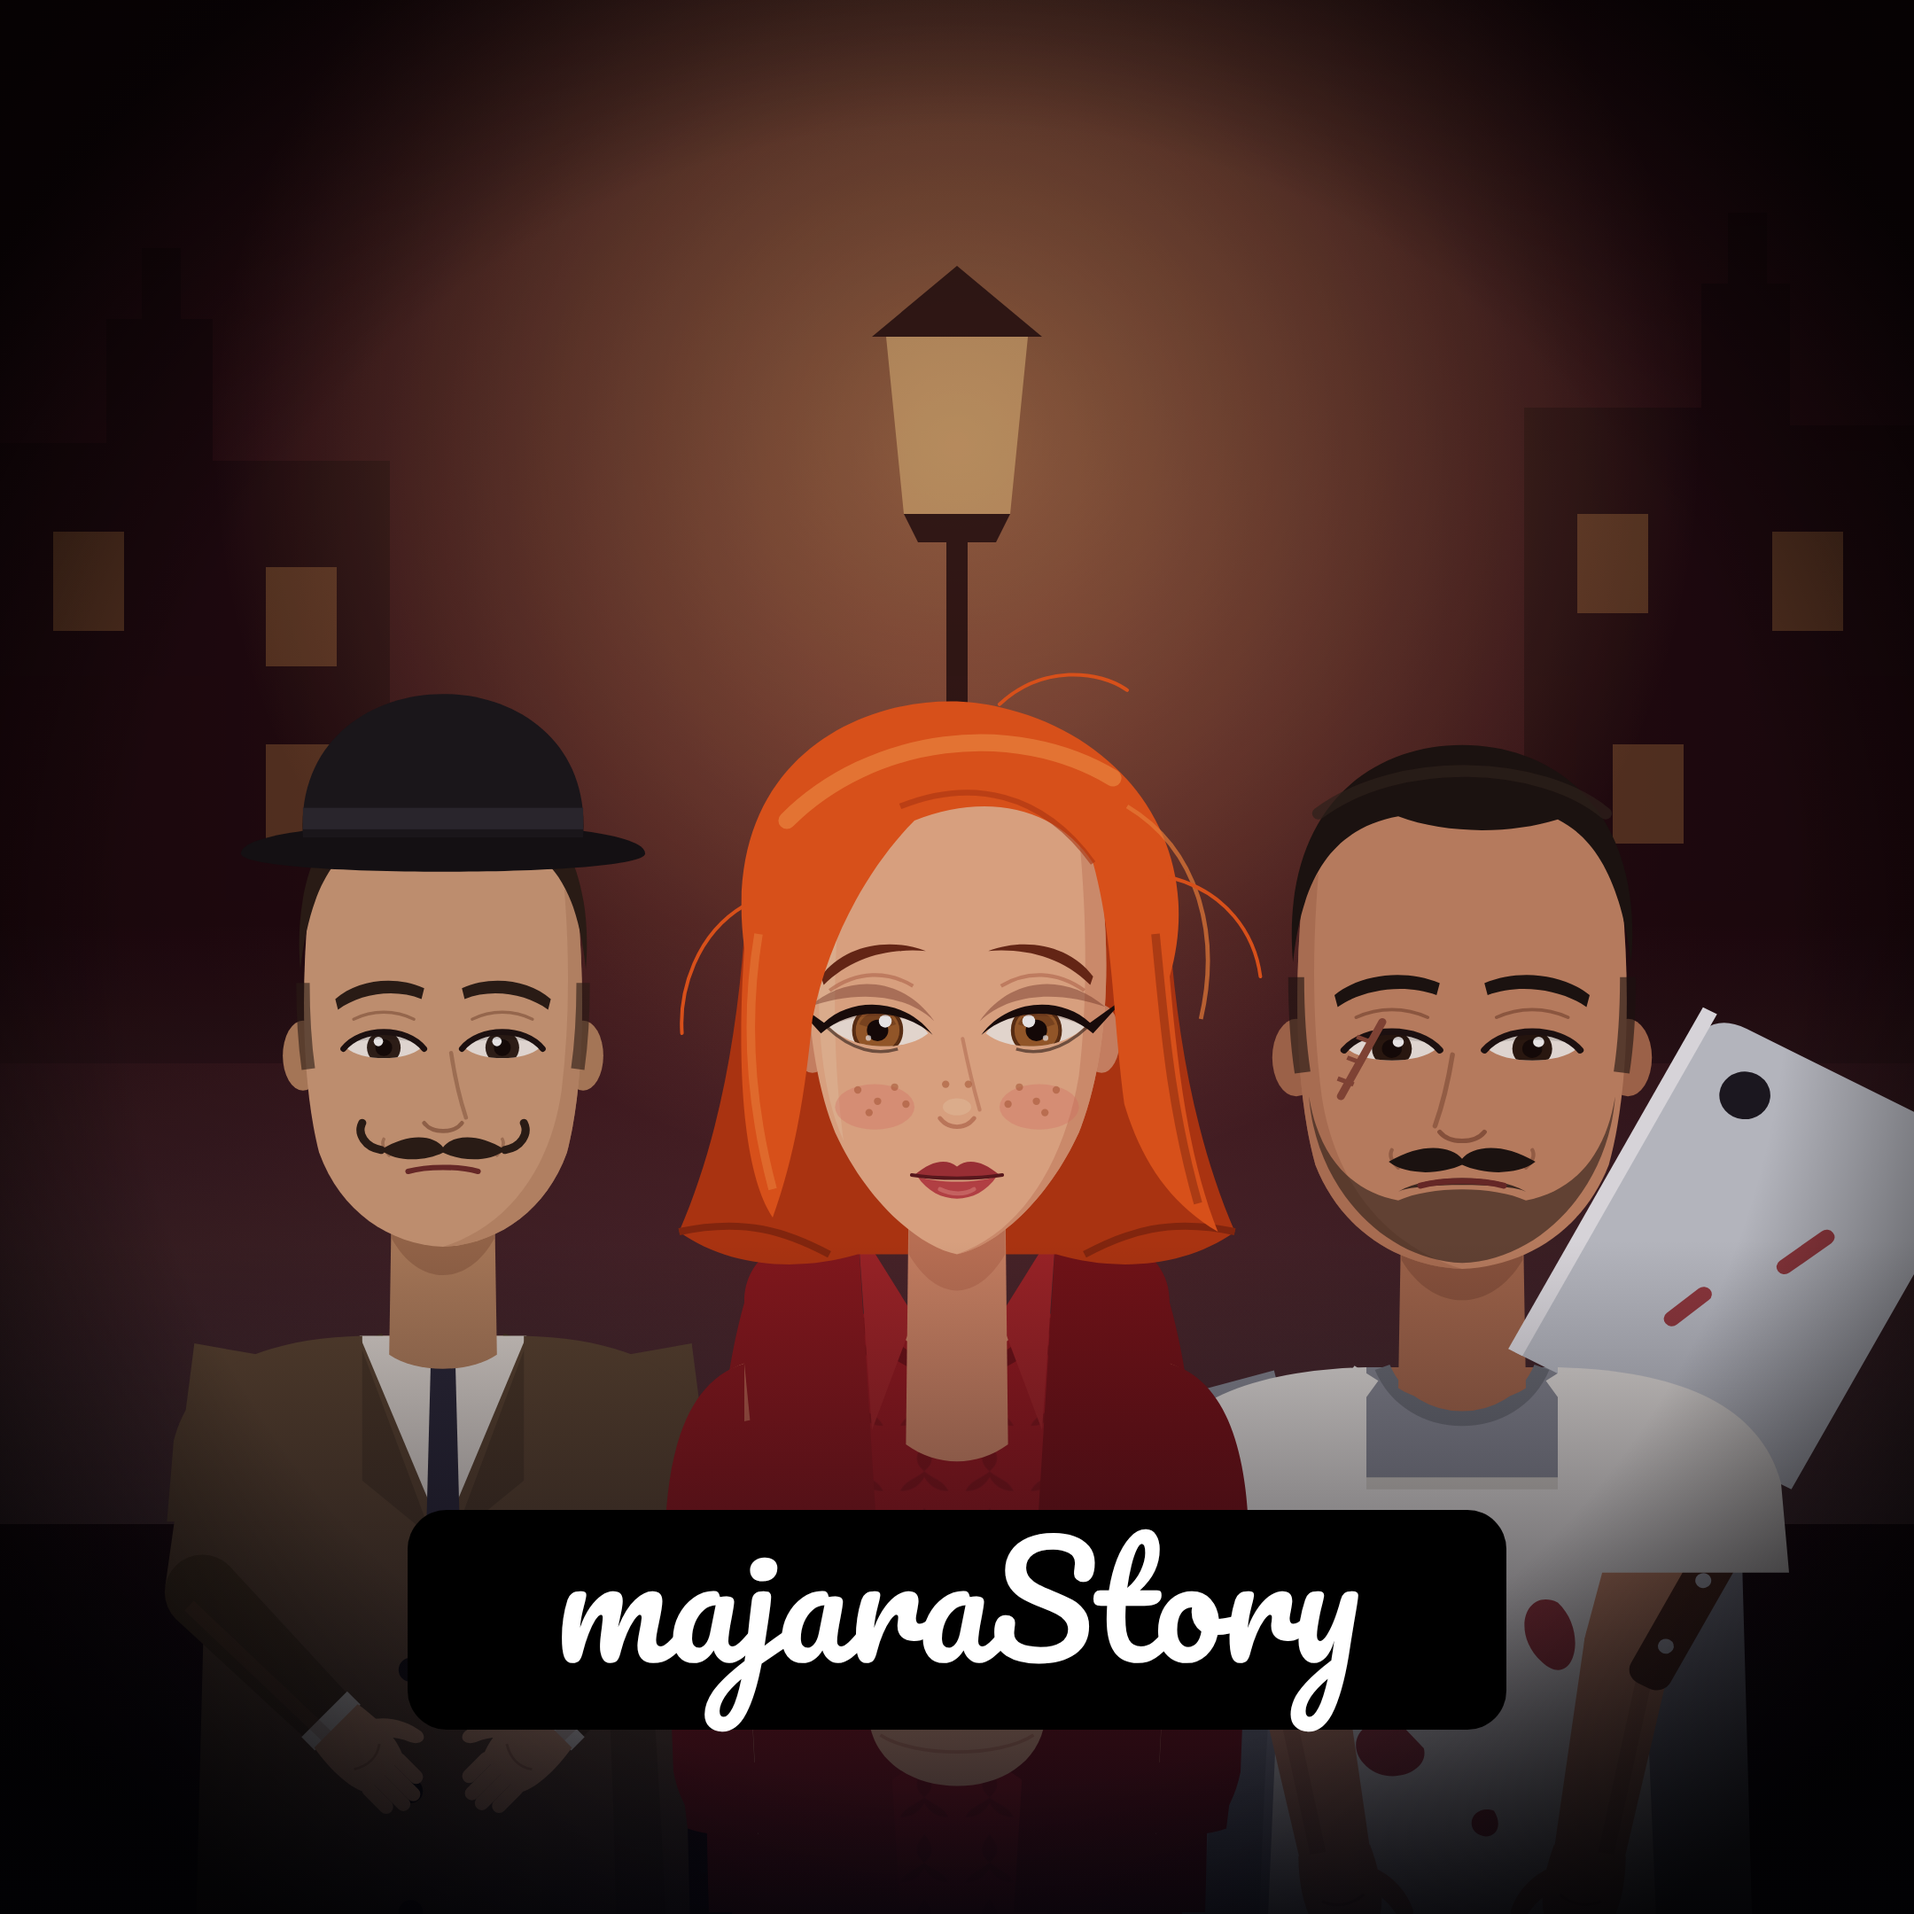
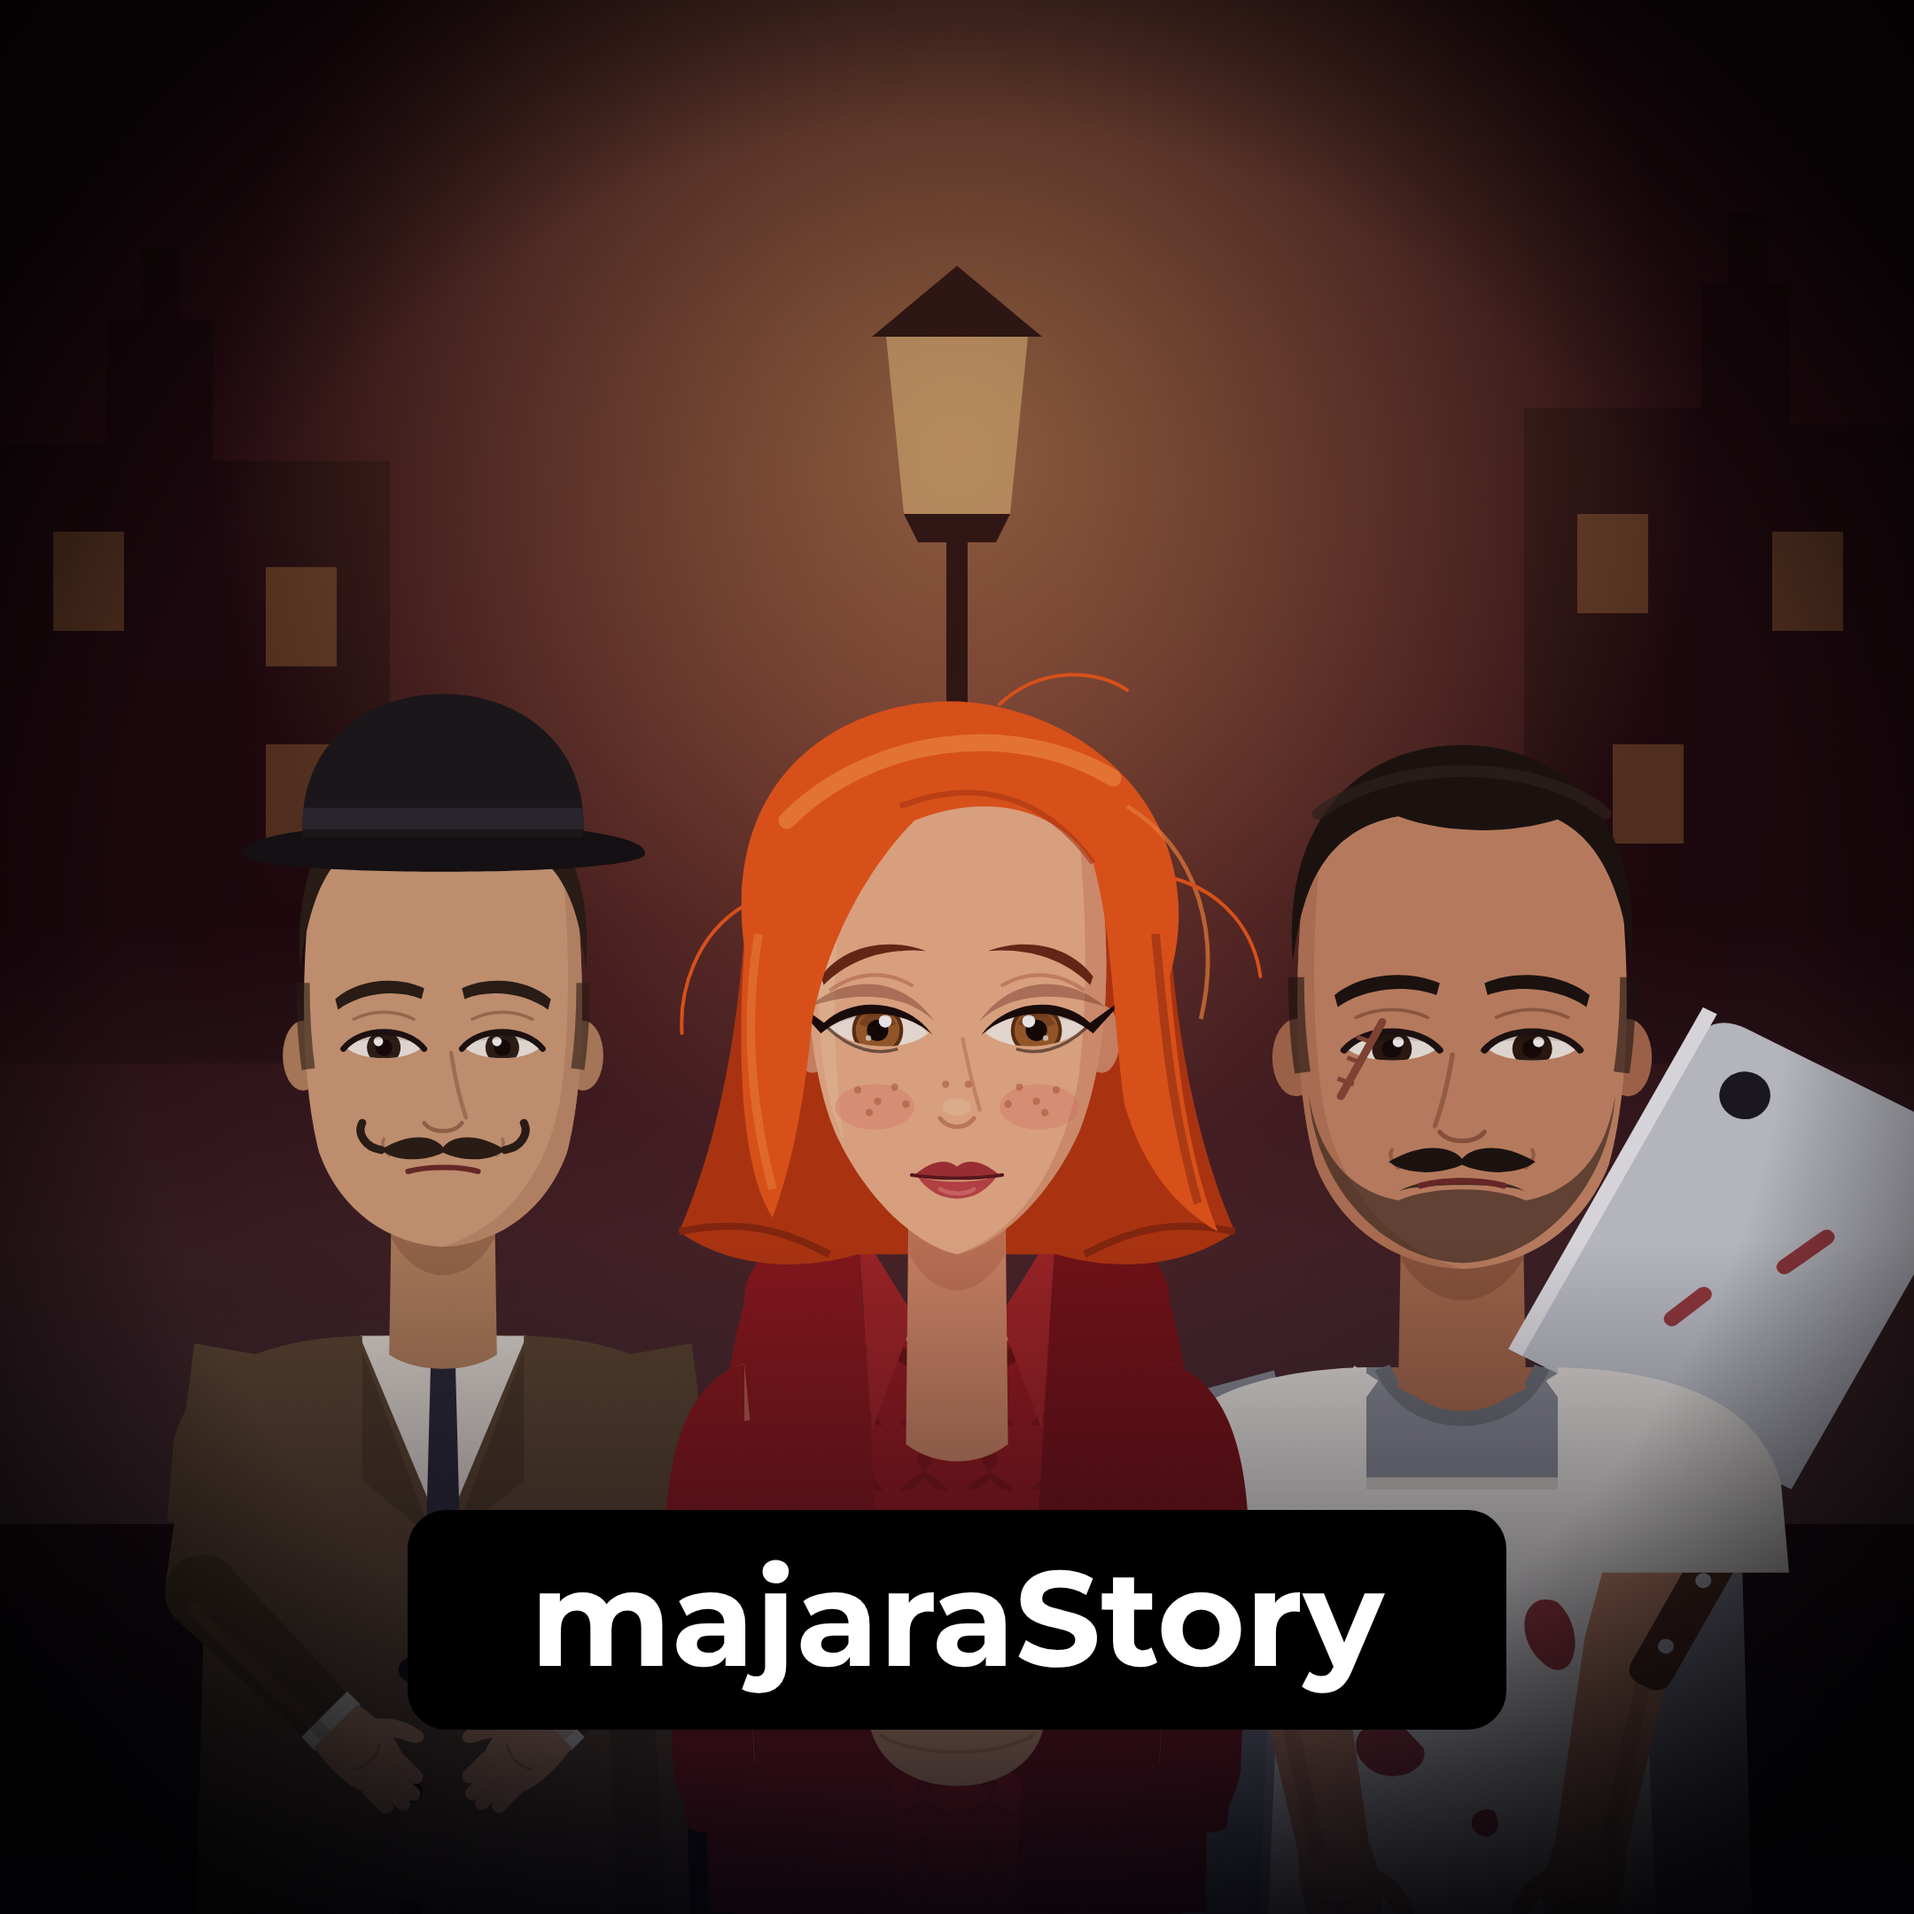
majaraStory profile: plain sans-serif name
Claude-Session: https://claude.ai/code/session_018hMAn5DChMvQUs3Ho2zBUk

Changed region(s): [[0.2792, 0.7755, 0.7134, 0.8995]]

diff --git a/hyperframes/profile/majara.html b/hyperframes/profile/majara.html
@@ -1,4 +1,4 @@
-<!doctype html><html><head><meta charset="utf-8"><link href="https://fonts.googleapis.com/css2?family=Pacifico&display=block" rel="stylesheet"><style>html,body{margin:0;background:#000}</style></head><body><svg xmlns="http://www.w3.org/2000/svg" viewBox="0 0 1080 1080" width="1080" height="1080">
+<!doctype html><html><head><meta charset="utf-8"><link href="https://fonts.googleapis.com/css2?family=Montserrat:wght@700&display=block" rel="stylesheet"><style>html,body{margin:0;background:#000}</style></head><body><svg xmlns="http://www.w3.org/2000/svg" viewBox="0 0 1080 1080" width="1080" height="1080">
 <defs>
   <radialGradient id="bg" cx="50%" cy="38%" r="75%"><stop offset="0" stop-color="#5a1e24"/><stop offset="0.5" stop-color="#2a0e14"/><stop offset="1" stop-color="#0a0406"/></radialGradient>
   <radialGradient id="lamp" cx="540" cy="250" r="420" gradientUnits="userSpaceOnUse"><stop offset="0" stop-color="#ffc874" stop-opacity="0.45"/><stop offset="1" stop-color="#ffc874" stop-opacity="0"/></radialGradient>
@@ -318,5 +318,5 @@
 <rect y="700" width="1080" height="380" fill="url(#shade)"/>
 <rect width="1080" height="1080" fill="url(#vig)"/>
 <rect x="230" y="852" width="620" height="124" rx="22" fill="#000"/>
-<text x="540" y="938" font-family="'Pacifico'" font-size="86" fill="#fff" text-anchor="middle">majaraStory</text>
+<text x="540" y="940" font-family="'Montserrat', sans-serif" font-weight="700" font-size="76" fill="#fff" text-anchor="middle">majaraStory</text>
 </svg></body></html>
